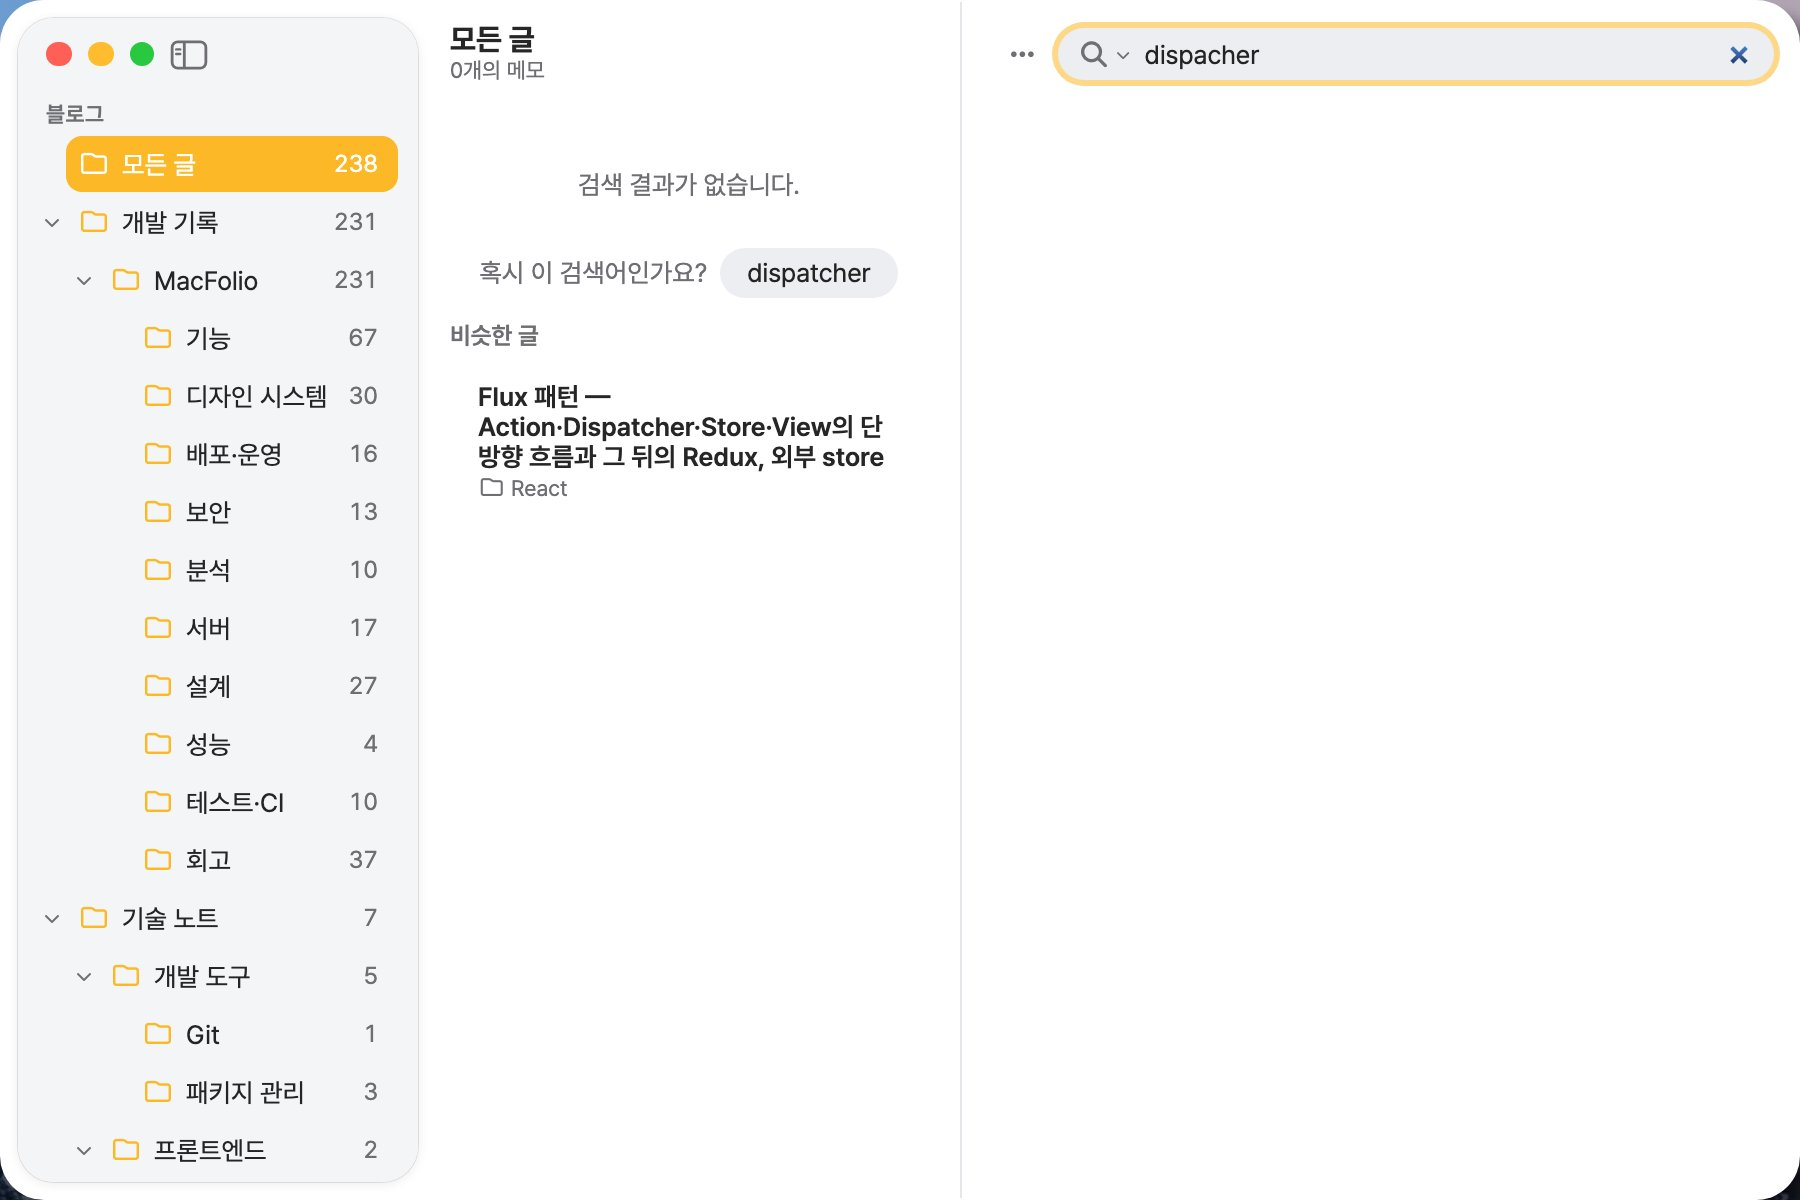
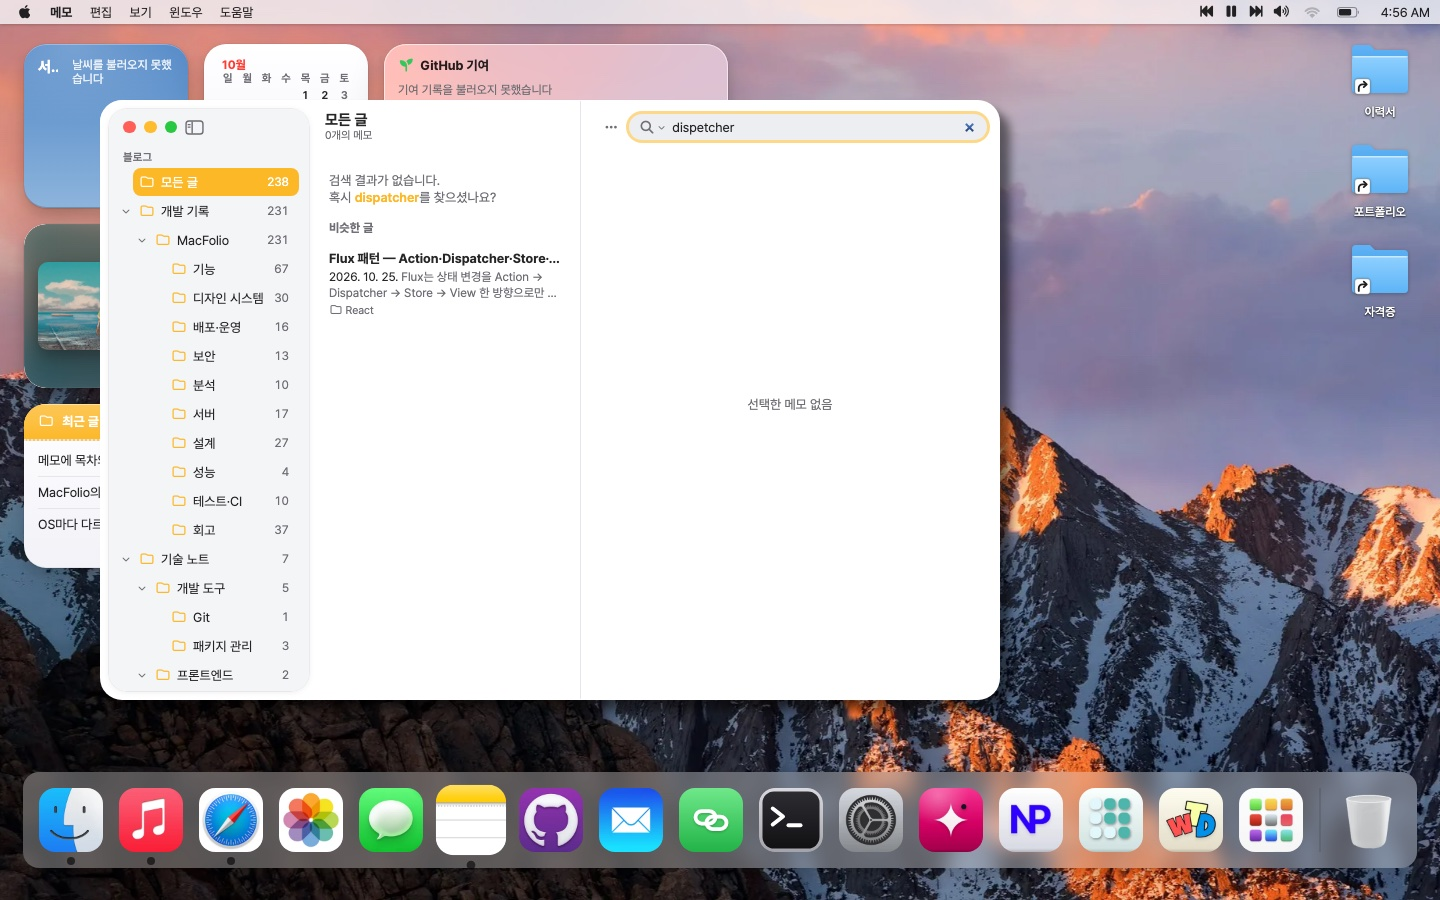
fix(memo): 검색 결과가 없을 때 안내를 목록 왼쪽에 맞추고, 비슷한 글은 보통 메모 줄로, 고친 검색어는 강조색 글자 링크로

diff --git a/apps/react/src/apps/memo/components/SimilarResults.tsx b/apps/react/src/apps/memo/components/SimilarResults.tsx
@@ -1,50 +1,62 @@
-import { folderName, type Post } from '@macfolio/desktop-core/memo';
-import Button from '@/shared/ui/button/Button';
+import { type Post } from '@macfolio/desktop-core/memo';
+import { NoteItem } from './NoteList';
 import '@/apps/memo/components/SimilarResults.css';
 
+/** 받침이 있으면 '을', 없으면 '를' (한글로 끝나지 않으면 '를') */
+const objectParticle = (word: string) => {
+	const code = word.charCodeAt(word.length - 1);
+	return code >= 0xac00 && code <= 0xd7a3 && (code - 0xac00) % 28 !== 0 ? '을' : '를';
+};
+
 /**
- * 검색 결과가 없을 때: 고친 검색어("혹시 ○○?")와, 제목·주소·태그의 철자가 비슷한 글 (desktop-core의 search.ts).
- * 고친 검색어를 누르면 그 검색어로 다시 찾고, 글을 누르면 검색어를 지우고 그 글을 연다
+ * 검색 결과가 없을 때 목록 칸: 맨 위 안내 줄, 고친 검색어 ("혹시 ○○를 찾으셨나요?", 누르면 그 검색어로),
+ * 제목·주소·태그의 철자가 비슷한 글 (desktop-core의 search.ts). 비슷한 글은 일반 목록과 같은 행으로 그린다
  */
 const SimilarResults = ({
 	suggestion,
 	posts,
+	today,
 	onSuggest,
 	onOpen,
 }: {
 	suggestion: string | null;
 	posts: Post[];
+	today: Date;
 	onSuggest: (query: string) => void;
 	onOpen: (post: Post) => void;
-}) => {
-	if (!suggestion && posts.length === 0) return null;
-	return (
-		<section className="memo-similar" aria-label="비슷한 검색 결과">
-			{suggestion && (
-				<p className="memo-similar-suggest">
-					<span>혹시 이 검색어인가요?</span>
-					<Button onClick={() => onSuggest(suggestion)}>{suggestion}</Button>
-				</p>
-			)}
-			{posts.length > 0 && (
-				<>
-					<h3 className="memo-similar-title">비슷한 글</h3>
-					<ul className="memo-similar-list">
-						{posts.map((post) => (
-							<li key={post.slug}>
-								<button type="button" onClick={() => onOpen(post)}>
-									<strong>{post.title}</strong>
-									<span>
-										<i className="fa-regular fa-folder" aria-hidden="true" /> {folderName(post.category)}
-									</span>
-								</button>
-							</li>
-						))}
-					</ul>
-				</>
-			)}
-		</section>
-	);
-};
+}) => (
+	<section className="memo-search-empty" aria-label="비슷한 검색 결과">
+		<p className="memo-empty memo-search-empty-title">검색 결과가 없습니다.</p>
+		{suggestion && (
+			<p className="memo-search-suggest">
+				혹시{' '}
+				<button type="button" onClick={() => onSuggest(suggestion)}>
+					{suggestion}
+				</button>
+				{objectParticle(suggestion)} 찾으셨나요?
+			</p>
+		)}
+		{posts.length > 0 && (
+			<>
+				<h3 className="memo-section-title">비슷한 글</h3>
+				<ul className="memo-items" aria-label="비슷한 글">
+					{posts.map((post) => (
+						<li key={post.slug}>
+							<NoteItem
+								post={post}
+								picked={null}
+								dragging={false}
+								drag={{}}
+								active={false}
+								today={today}
+								onOpen={() => onOpen(post)}
+							/>
+						</li>
+					))}
+				</ul>
+			</>
+		)}
+	</section>
+);
 
 export default SimilarResults;

diff --git a/apps/react/src/apps/memo/components/SimilarResults.css b/apps/react/src/apps/memo/components/SimilarResults.css
@@ -1,61 +1,44 @@
-/* 검색 결과가 없을 때 '혹시 이 검색어인가요?'와 비슷한 글 목록. 빈 상태 문구(.memo-empty) 바로 아래 */
-.memo-similar {
-	display: flex;
-	flex-direction: column;
-	gap: var(--space-8);
-	padding: 0 var(--space-12) var(--space-16);
+/* 검색 결과가 없을 때 목록 칸 (SimilarResults.tsx). 안내 줄은 목록 머리처럼 왼쪽에, 비슷한 글은 일반 목록 행 그대로 */
+.memo-search-empty {
+	padding-top: var(--space-8);
 }
 
-.memo-similar-suggest {
-	display: flex;
-	flex-wrap: wrap;
-	gap: var(--space-6);
-	align-items: center;
-	justify-content: center;
+/* .memo-empty는 가운데 정렬의 빈 상태 문구. 검색 결과가 없을 때는 목록 머리 줄처럼 왼쪽에 둔다 */
+.memo-search-empty .memo-search-empty-title {
 	margin: 0;
+	padding: var(--space-4) var(--space-20) 0;
+	font-size: var(--text-footnote);
+	text-align: left;
+}
+
+.memo-search-suggest {
+	margin: var(--space-2) 0 0;
+	padding: 0 var(--space-20);
 	color: var(--memo-muted);
 	font-size: var(--text-footnote);
 }
 
-.memo-similar-title {
-	margin: var(--space-4) var(--space-4) 0;
-	color: var(--memo-muted);
-	font-size: var(--text-caption);
-	font-weight: 600;
-}
-
-.memo-similar-list {
-	margin: 0;
+/* 고친 검색어: 메모 포인트색 글자 링크 (macOS 메모·Spotlight의 '…을 찾으셨나요?'처럼) */
+.memo-search-suggest button {
 	padding: 0;
-	list-style: none;
-}
-
-.memo-similar-list button {
-	display: flex;
-	flex-direction: column;
-	gap: var(--space-2);
-	width: 100%;
-	padding: var(--space-8) var(--space-10);
 	border: none;
-	border-radius: var(--radius-8);
 	background: none;
-	color: var(--memo-text);
+	color: var(--memo-accent);
 	font: inherit;
-	text-align: left;
+	font-weight: 600;
 	cursor: pointer;
 }
 
-.memo-similar-list button:hover,
-.memo-similar-list button:focus-visible {
-	background: var(--memo-hover);
+.memo-search-suggest button:hover {
+	text-decoration: underline;
 }
 
-.memo-similar-list strong {
-	font-size: var(--text-footnote);
-	font-weight: 600;
+.memo-search-suggest button:focus-visible {
+	border-radius: var(--radius-4);
+	outline: 2px solid var(--memo-accent);
+	outline-offset: 2px;
 }
 
-.memo-similar-list span {
-	color: var(--memo-muted);
-	font-size: var(--text-caption2);
+.memo-search-empty .memo-section-title {
+	margin-top: var(--space-16);
 }

diff --git a/apps/react/src/apps/memo/Memo.tsx b/apps/react/src/apps/memo/Memo.tsx
@@ -449,13 +449,14 @@ const Memo: React.FC = () => {
 		<>
 			{status === 'loading' && <EmptyState className="memo-empty">불러오는 중…</EmptyState>}
 			{status === 'error' && <EmptyState className="memo-empty">글을 불러오지 못했습니다.</EmptyState>}
-			{status === 'ready' && visible.length === 0 && (
+			{status === 'ready' && visible.length === 0 && !similar && (
 				<EmptyState className="memo-empty">{query || filter ? '검색 결과가 없습니다.' : '메모 없음'}</EmptyState>
 			)}
 			{status === 'ready' && similar && (
 				<SimilarResults
 					suggestion={similar.suggestion}
 					posts={similar.posts}
+					today={today}
 					onSuggest={setQuery}
 					onOpen={(post) => {
 						setQuery('');
@@ -812,6 +813,10 @@ const Memo: React.FC = () => {
 										onUnlock={() => toggleLock(selected)}
 									/>
 								</div>
+							)}
+							{/* 고른 글이 없을 때 (검색 결과가 없거나 빈 폴더): macOS 메모처럼 본문 칸 가운데에 짧은 안내 */}
+							{status === 'ready' && !selected && newDraft === null && (
+								<EmptyState className="memo-reader-empty">선택한 메모 없음</EmptyState>
 							)}
 						</div>
 						{selected && !writing && <TextSizeControl scale={textScale} onChange={setTextScale} />}

diff --git a/apps/react/e2e/memo-find.spec.ts b/apps/react/e2e/memo-find.spec.ts
@@ -58,7 +58,9 @@ test.describe('검색 칸과 글 안에서 찾기', () => {
 		await search.fill('dispetcher');
 		await expect(memo.locator('.memo-empty')).toHaveText('검색 결과가 없습니다.');
 		const similar = memo.getByRole('region', { name: '비슷한 검색 결과' });
-		await expect(similar.getByText('혹시 이 검색어인가요?')).toBeVisible();
+		await expect(similar.getByText(/혹시 dispatcher를 찾으셨나요\?/)).toBeVisible();
+		// 고른 글이 없으니 본문 칸은 안내만
+		await expect(memo.getByText('선택한 메모 없음')).toBeVisible();
 		await expect(similar.getByRole('listitem').first()).toContainText('Flux 패턴');
 
 		await similar.getByRole('button', { name: 'dispatcher', exact: true }).click();

diff --git a/apps/react/e2e/memo-admin.spec.ts b/apps/react/e2e/memo-admin.spec.ts
@@ -39,7 +39,7 @@ test.describe('메모 편집 (관리자)', () => {
 		await input.press('Enter');
 		const folder = folders.getByRole('button', { name: /^읽을거리/ });
 		await expect(folder).toHaveAttribute('aria-current', 'true');
-		await expect(memo.getByText('메모 없음')).toBeVisible();
+		await expect(memo.getByText('메모 없음', { exact: true })).toBeVisible();
 
 		// 서버에 저장되어 새로고침해도 남는다
 		await expect.poll(() => api.organization.folders).toEqual(['읽을거리']);

diff --git a/apps/react/src/apps/memo/styles/note.css b/apps/react/src/apps/memo/styles/note.css
@@ -626,3 +626,14 @@ button.memo-admin-chip {
 	max-width: 100%;
 	border-radius: 0.6em;
 }
+
+/* 고른 글이 없을 때 본문 칸 안내 (Memo.tsx). 칸 가운데에 흐린 글자 */
+.memo-reader-empty {
+	display: flex;
+	align-items: center;
+	justify-content: center;
+	height: 100%;
+	margin: 0;
+	color: var(--memo-muted);
+	font-size: var(--text-footnote);
+}

diff --git a/apps/react/src/apps/memo/content/notes-polish.md b/apps/react/src/apps/memo/content/notes-polish.md
@@ -170,9 +170,9 @@ registry.set('memo-find-current', new Highlight(...(current >= 0 ? [ranges[curre
 
 </details>
 
-![결과가 없을 때의 메모 목록](./images/notes-polish-search-similar.jpg '데스크톱 메모에서 dispacher로 찾은 화면. "검색 결과가 없습니다." 아래에 "혹시 이 검색어인가요? dispatcher" 단추와, 비슷한 글로 Flux 패턴 글이 보인다')
+![결과가 없을 때의 메모 목록](./images/notes-polish-search-similar.jpg '데스크톱 메모에서 dispatcher를 한 글자 틀리게 적어 찾은 화면. 목록 맨 위에 왼쪽 정렬로 "검색 결과가 없습니다."와 "혹시 dispatcher를 찾으셨나요?"가 있고, 그 아래 "비슷한 글" 머리 밑에 Flux 패턴 글이 보통 메모 줄 모양으로 보인다. 본문 칸에는 "선택한 메모 없음"')
 
-고친 검색어를 누르면 그 검색어로 다시 찾고, 비슷한 글을 누르면 검색어를 지우고 그 글을 연다.
+목록은 보통 목록과 같은 부품으로 그린다. 안내 두 줄은 목록 왼쪽 끝에 맞추고, 고친 검색어는 메모 강조색 글자 링크로, 비슷한 글은 날짜 묶음 머리와 같은 모양의 '비슷한 글' 머리 아래 보통 메모 줄(`NoteItem`)로 보인다. 첫 글을 저절로 열지 않고 본문 칸에는 '선택한 메모 없음'을 보인다. 고친 검색어를 누르면 그 검색어로 다시 찾고, 비슷한 글을 누르면 검색어를 지우고 그 글을 연다. 휴대폰과 다크 모드도 같은 규칙이다.
 
 ## 이미지: 캡션 수정, 내려받기, 드롭 위치 표시
 
